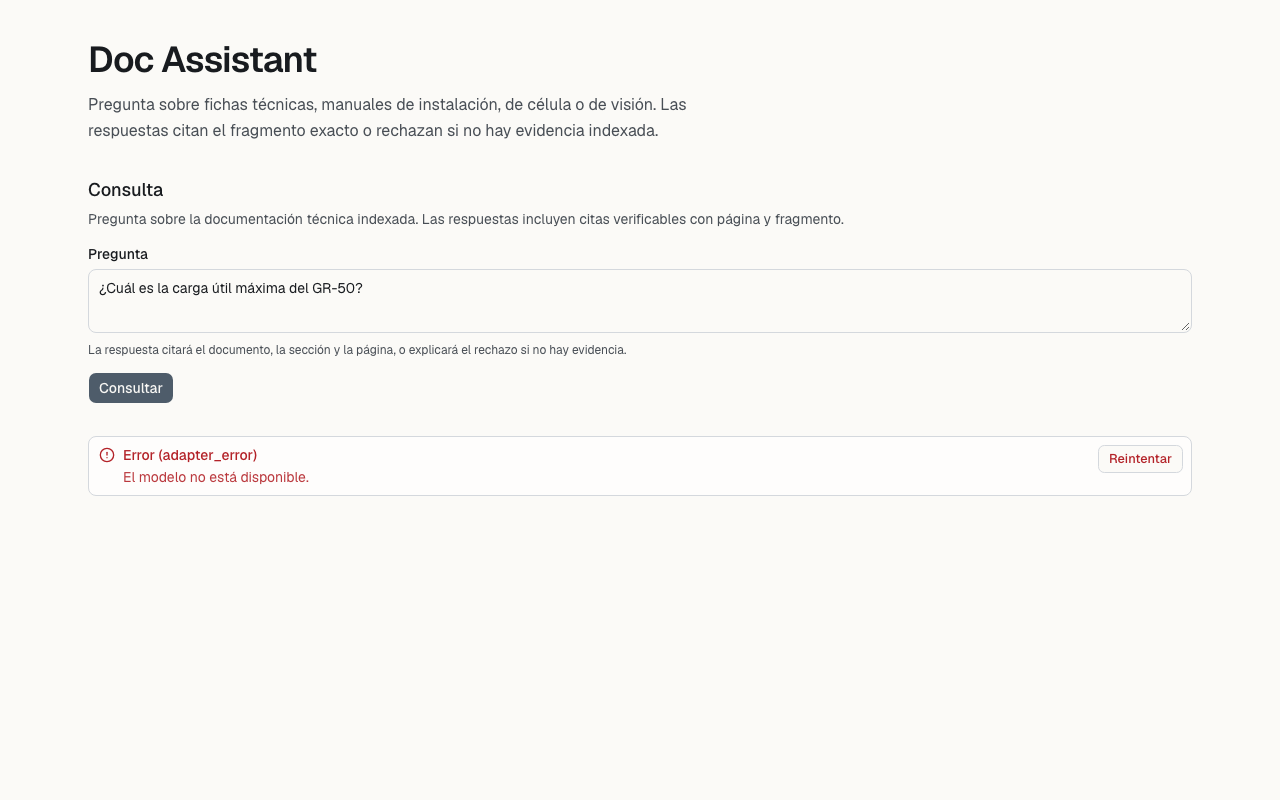
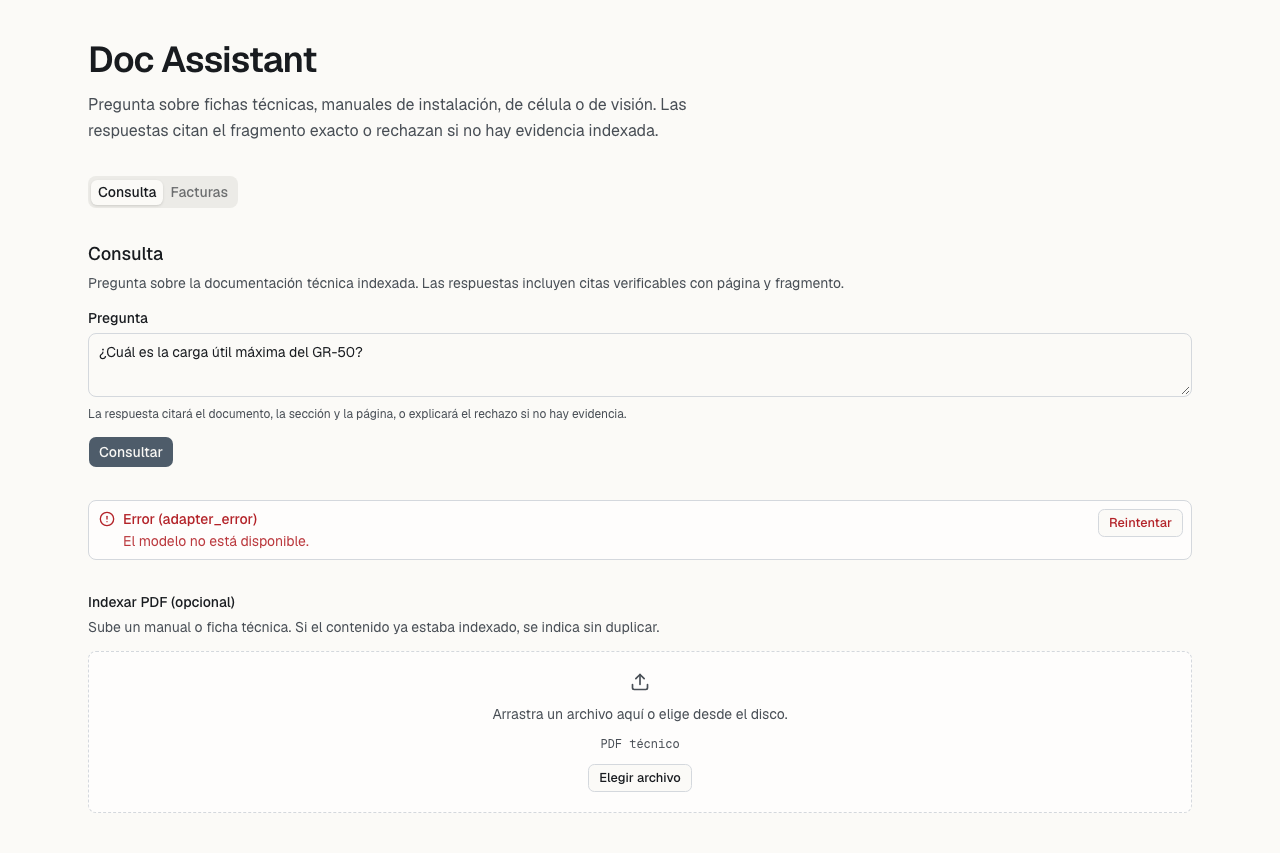
test(web): capturas e2e de facturas ok y revisar
Intercepta upload/list/image con fixtures sintéticos; regenera ask-* con pestañas y dropzone PDF.

diff --git a/apps/web/e2e/invoices.spec.ts b/apps/web/e2e/invoices.spec.ts
@@ -1,0 +1,157 @@
+import path from "node:path"
+
+import { expect, test, type Page } from "@playwright/test"
+
+import {
+  FACTURA_001_PATH,
+  FACTURA_001_PNG,
+  invoiceOkRecord,
+  invoiceOkUpload,
+  invoiceReviewUpload,
+} from "./invoice-fixtures"
+
+const SCREENSHOT_DIR = path.join("..", "..", "evidence", "screenshots")
+
+const VIEWPORTS = {
+  desktop: { width: 1280, height: 800 },
+  mobile: { width: 390, height: 844 },
+} as const
+
+async function stabilize(page: Page) {
+  await page.evaluate(() => document.fonts.ready)
+  await page.addStyleTag({
+    content: `
+      *, *::before, *::after {
+        animation: none !important;
+        transition: none !important;
+        caret-color: transparent !important;
+      }
+    `,
+  })
+}
+
+async function openFacturas(page: Page) {
+  await page.getByRole("tab", { name: "Facturas" }).click()
+  await expect(page.getByTestId("invoices-workspace")).toBeVisible()
+}
+
+async function mockInvoiceApis(
+  page: Page,
+  uploadBody: typeof invoiceOkUpload | typeof invoiceReviewUpload
+) {
+  let listed: unknown[] = []
+
+  await page.route("**/api/invoices/upload", async (route) => {
+    if (route.request().method() !== "POST") {
+      await route.fallback()
+      return
+    }
+    listed = [uploadBody.record]
+    await route.fulfill({
+      status: 200,
+      contentType: "application/json",
+      body: JSON.stringify(uploadBody),
+    })
+  })
+
+  await page.route("**/api/invoices", async (route) => {
+    if (route.request().method() !== "GET") {
+      await route.fallback()
+      return
+    }
+    await route.fulfill({
+      status: 200,
+      contentType: "application/json",
+      body: JSON.stringify(listed),
+    })
+  })
+
+  await page.route("**/api/invoices/*/image", async (route) => {
+    await route.fulfill({
+      status: 200,
+      contentType: "image/png",
+      body: FACTURA_001_PNG,
+    })
+  })
+}
+
+async function uploadAndShowCard(page: Page, expectedEstado: string) {
+  await openFacturas(page)
+  await page
+    .getByTestId("invoice-upload")
+    .locator('input[type="file"]')
+    .setInputFiles(FACTURA_001_PATH)
+
+  await expect(page.getByTestId("invoice-review-card")).toBeVisible()
+  await expect(page.getByTestId("invoice-estado")).toHaveText(expectedEstado)
+
+  const image = page.getByRole("img", { name: /Factura / })
+  await expect(image).toBeVisible()
+  await expect
+    .poll(async () =>
+      image.evaluate((el) => (el as HTMLImageElement).naturalWidth)
+    )
+    .toBeGreaterThan(0)
+}
+
+async function captureInvoice(
+  page: Page,
+  name: string,
+  viewport: keyof typeof VIEWPORTS,
+  uploadBody: typeof invoiceOkUpload | typeof invoiceReviewUpload,
+  assertions: () => Promise<void>
+) {
+  await page.setViewportSize(VIEWPORTS[viewport])
+  await mockInvoiceApis(page, uploadBody)
+  await page.goto("/")
+  await stabilize(page)
+  await uploadAndShowCard(page, uploadBody.estado)
+  await assertions()
+  const suffix = viewport === "desktop" ? "" : "-mobile"
+  await page.screenshot({
+    path: path.join(SCREENSHOT_DIR, `${name}${suffix}.png`),
+    fullPage: true,
+  })
+}
+
+test.describe("invoice flow screenshots", () => {
+  for (const viewport of ["desktop", "mobile"] as const) {
+    test(`factura ok (${viewport})`, async ({ page }) => {
+      await captureInvoice(page, "invoice-ok", viewport, invoiceOkUpload, async () => {
+        await expect(
+          page.locator('[data-field="emisor"]')
+        ).toContainText(invoiceOkRecord.emisor)
+        await expect(
+          page.locator('[data-field="importe_total"]')
+        ).toContainText("537,94 €")
+        await expect(
+          page.locator('[data-field="iban"]')
+        ).toContainText("—  no encontrado")
+        await expect(page.getByTestId("invoice-list-item-F-2026-001")).toBeVisible()
+      })
+    })
+
+    test(`factura revisar (${viewport})`, async ({ page }) => {
+      await captureInvoice(
+        page,
+        "invoice-review",
+        viewport,
+        invoiceReviewUpload,
+        async () => {
+          await expect(page.getByTestId("invoice-motivo")).toContainText(
+            "importes_incompletos"
+          )
+          await expect(
+            page.getByTestId("flag-derivado-base_imponible_total")
+          ).toBeVisible()
+          await expect(
+            page.locator('[data-field="cuota_iva_total"]')
+          ).toContainText("—  no encontrado")
+          await expect(
+            page.locator('[data-field="iban"]')
+          ).toContainText("—  no encontrado")
+        }
+      )
+    })
+  }
+})

diff --git a/apps/web/e2e/invoice-fixtures.ts b/apps/web/e2e/invoice-fixtures.ts
@@ -1,0 +1,101 @@
+import fs from "node:fs"
+import path from "node:path"
+
+import type {
+  ErrorBody,
+  Invoice,
+  InvoiceUploadResponse,
+} from "../src/lib/api/types"
+
+const FIXTURES = path.join(
+  process.cwd(),
+  "..",
+  "..",
+  "evidence",
+  "fixtures",
+  "invoices"
+)
+
+export const FACTURA_001_PNG = fs.readFileSync(
+  path.join(FIXTURES, "factura_001.png")
+)
+
+export const invoiceOkRecord = {
+  numero: "F-2026-001",
+  fecha_emision: "2026-01-01",
+  fecha_vencimiento: "2026-12-31",
+  emisor: "María Soler García",
+  nif_emisor: "59516774L",
+  cliente: "Talleres Puig, S.A.",
+  nif_cliente: "A49117963",
+  base_imponible_total: "507.49",
+  cuota_iva_total: "106.57",
+  irpf_tipo: "15",
+  irpf_importe: "76.12",
+  recargo_total: null,
+  importe_total: "537.94",
+  iban: null,
+} as const satisfies Invoice
+
+export const invoiceOkUpload = {
+  record: invoiceOkRecord,
+  estado: "ok",
+  motivo: null,
+  evidencias: {
+    numero: "Factura F-2026-001",
+    fecha_emision: "Fecha: 2026-01-01",
+    fecha_vencimiento: "Vencimiento: 2026-12-31",
+    emisor: "Emisor: María Soler García",
+    nif_emisor: "NIF Emisor: 59516774L",
+    cliente: "Cliente: Talleres Puig, S.A.",
+    nif_cliente: "NIF Cliente: A49117963",
+    base_imponible_total: "Subtotal 507,49",
+    cuota_iva_total: "IVA 21% 106,57",
+    irpf_tipo: "IRPF 15%",
+    irpf_importe: "Retención IRPF 76,12",
+    recargo_total: null,
+    importe_total: "TOTAL 537,94",
+    iban: null,
+  },
+  flags: {},
+  fichero: "F-2026-001.png",
+} as const satisfies InvoiceUploadResponse
+
+export const invoiceReviewUpload = {
+  record: {
+    ...invoiceOkRecord,
+    numero: "F-2026-REV",
+    iban: null,
+    recargo_total: null,
+    cuota_iva_total: null,
+  },
+  estado: "revisar",
+  motivo: "importes_incompletos",
+  evidencias: {
+    numero: "Factura F-2026-REV",
+    fecha_emision: "Fecha: 2026-01-01",
+    fecha_vencimiento: "Vencimiento: 2026-12-31",
+    emisor: "Emisor: María Soler García",
+    nif_emisor: "NIF Emisor: 59516774L",
+    cliente: "Cliente: Talleres Puig, S.A.",
+    nif_cliente: "NIF Cliente: A49117963",
+    base_imponible_total: "Subtotal 507,49",
+    cuota_iva_total: null,
+    irpf_tipo: "IRPF 15%",
+    irpf_importe: "Retención IRPF 76,12",
+    recargo_total: null,
+    importe_total: "TOTAL 537,94",
+    iban: null,
+  },
+  flags: {
+    base_imponible_total: "derivado",
+  },
+  fichero: "F-2026-REV.png",
+} as const satisfies InvoiceUploadResponse
+
+export const invoiceUploadError = {
+  code: "invalid_file",
+  message: "Only PNG/JPG invoice images are accepted",
+} as const satisfies ErrorBody
+
+export const FACTURA_001_PATH = path.join(FIXTURES, "factura_001.png")
